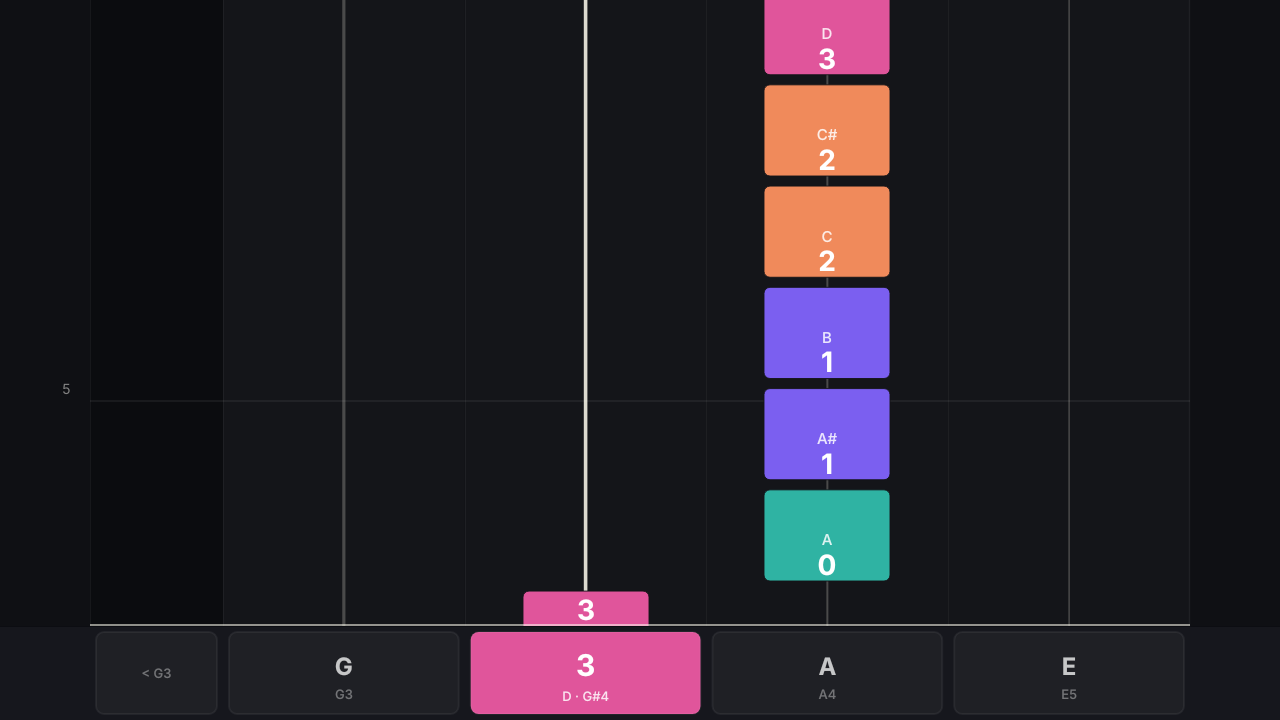
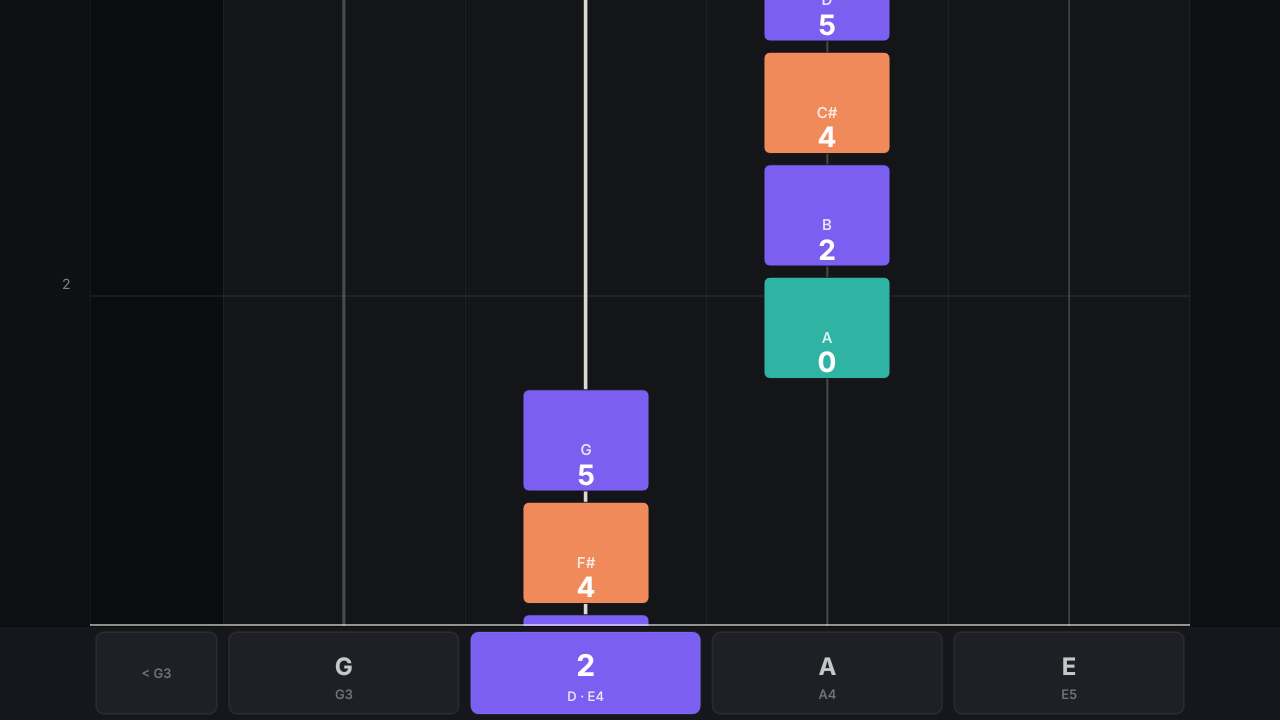
Show semitones (0–6) in violin blocks and color sharps/flats
The block number was the 1st-position finger (0–3), which gives a natural and
its sharp the same number (e.g. C and C# on the A string were both "2"), so
sharps were indistinguishable without note labels.

- Blocks (and the bottom panel) now show semitones above the open string,
  0 = open … 6. Configurable via `blockNumber: 'semitones' | 'finger'`.
- Colors: green = open string, purple = natural, orange = sharp/flat.
- Notes past the top of the range show their name instead of a number.
- Tests for the numbering; README and screenshot updated.

Claude-Session: https://claude.ai/code/session_019oggZxxvHFyZa4nUrM65n1

Changed region(s): [[0.5938, 0.1528, 0.7188, 0.825], [0.3438, 0.5194, 0.5625, 1.0], [0.5938, 0.0, 0.7188, 0.1222]]

diff --git a/src/features/SongVisualization/violin.ts b/src/features/SongVisualization/violin.ts
@@ -1,12 +1,14 @@
 /**
  * Violin visualization: notes fall onto the four strings (G, D, A, E) instead of piano keys.
- * Each falling block shows the finger to use (0 = open string). Where a note goes is decided
+ * Each falling block shows how many semitones above the open string to play (0 = open string),
+ * and sharps/flats are drawn in a different color, like the black keys of a piano. Where a note goes is decided
  * by `@/features/violin` (see `DEFAULT_VIOLIN_CONFIG`), so the rules can change independently.
  */
 import { line, roundRect } from '@/features/drawing'
-import { getFixedDoNoteFromKey, getKey, getOctave, transposeMidi } from '@/features/theory'
+import { getFixedDoNoteFromKey, getKey, getOctave, isBlack, transposeMidi } from '@/features/theory'
 import {
   DEFAULT_VIOLIN_CONFIG,
+  getBlockNumber,
   getViolinLanes,
   placeViolinNote,
   ViolinConfig,
@@ -39,13 +41,11 @@ const colors = {
   rangeSelectionFill: '#8b5cf6',
 }
 
-/** Block colors by finger, so the finger can be read at a glance (like white/black keys). */
-const FINGER_COLORS: Record<number, string> = {
-  0: '#2fb3a3', // open string
-  1: '#7b5ff0',
-  2: '#f08a5b',
-  3: '#e0559b',
-  4: '#d6b83a',
+/** Block colors: open strings, natural notes and sharps/flats (like a piano's white/black keys). */
+const NOTE_COLORS = {
+  open: '#2fb3a3',
+  natural: '#7b5ff0',
+  accidental: '#f08a5b',
 }
 
 const MAX_AREA_WIDTH = 1100
@@ -133,11 +133,14 @@ function getStringName(index: number, state: State): string {
   return state.noteLabels === 'fixed-do' ? getFixedDoNoteFromKey(string.id) : string.id
 }
 
-function getBlockColor(placement: ViolinPlacement): string {
-  if (placement.outOfRange || placement.finger === null) {
+function getBlockColor(placement: ViolinPlacement, midi: number): string {
+  if (placement.outOfRange) {
     return colors.outOfRange
   }
-  return FINGER_COLORS[placement.finger] ?? colors.outOfRange
+  if (placement.semitones === 0) {
+    return NOTE_COLORS.open
+  }
+  return isBlack(midi) ? NOTE_COLORS.accidental : NOTE_COLORS.natural
 }
 
 export function renderViolinVis(
@@ -253,17 +256,18 @@ function renderFallingNote(
   }
 
   ctx.save()
-  ctx.fillStyle = getBlockColor(placement)
+  ctx.fillStyle = getBlockColor(placement, midi)
   ctx.strokeStyle = colors.noteBorder
   ctx.lineWidth = 1
   roundRect(ctx, posX, posYTop, width, length, { topRadius: 6, bottomRadius: 6 })
 
-  // Label at the bottom of the block: finger number (big) and, optionally, the note name.
+  // Label at the bottom of the block: the number (big) and, optionally, the note name.
   // While a long note crosses the hit line, the label sticks just above the line.
   const bottom = Math.min(posYTop + length, state.noteHitY)
   const visibleLength = bottom - posYTop
   const showName = state.noteLabels !== 'none'
-  const fingerText = placement.finger !== null ? String(placement.finger) : ''
+  const blockNumber = getBlockNumber(placement, state.config)
+  const fingerText = blockNumber !== null ? String(blockNumber) : ''
   const nameText =
     showName || !fingerText ? getNoteName(midi, state, !isString || placement.outOfRange) : ''
 
@@ -310,7 +314,7 @@ function renderRange(state: State) {
   ctx.restore()
 }
 
-/** Bottom panel: one box per lane with the string name, lit with the finger while a note plays. */
+/** Bottom panel: one box per lane with the string name, lit with the number while a note plays. */
 function renderPanel(
   state: State,
   active: Map<string, { midi: number; placement: ViolinPlacement }>,
@@ -337,7 +341,9 @@ function renderPanel(
     const boxH = panelHeight - pad * 2
     const playing = active.get(laneKey(lane.lane))
 
-    ctx.fillStyle = playing ? getBlockColor(playing.placement) : 'rgba(255,255,255,0.04)'
+    ctx.fillStyle = playing
+      ? getBlockColor(playing.placement, playing.midi)
+      : 'rgba(255,255,255,0.04)'
     ctx.strokeStyle = 'rgba(255,255,255,0.06)'
     roundRect(ctx, boxX, boxY, boxW, boxH, { topRadius: 8, bottomRadius: 8 })
 
@@ -351,10 +357,10 @@ function renderPanel(
       const titlePx = Math.max(12, Math.min(Math.floor(boxH * 0.3), 26))
       const subPx = Math.max(9, Math.min(Math.floor(boxH * 0.16), 13))
       if (playing) {
-        const finger = playing.placement.finger
+        const blockNumber = getBlockNumber(playing.placement, state.config)
         ctx.fillStyle = 'white'
         ctx.font = `700 ${Math.floor(titlePx * 1.25)}px ${FONT}`
-        ctx.fillText(finger !== null ? String(finger) : '–', cx, boxY + boxH * 0.4)
+        ctx.fillText(blockNumber !== null ? String(blockNumber) : '–', cx, boxY + boxH * 0.4)
         ctx.font = `500 ${subPx}px ${FONT}`
         ctx.globalAlpha = 0.85
         ctx.fillText(

diff --git a/src/features/violin/placement.test.ts b/src/features/violin/placement.test.ts
@@ -1,5 +1,5 @@
 import { DEFAULT_VIOLIN_CONFIG, ViolinConfig } from './config'
-import { getViolinLanes, placeViolinNote } from './placement'
+import { getBlockNumber, getViolinLanes, placeViolinNote } from './placement'
 
 const G3 = 55
 const C4 = 60
@@ -93,5 +93,28 @@ describe('placeViolinNote (custom configs)', () => {
       strings: DEFAULT_VIOLIN_CONFIG.strings.map((s) => ({ ...s, maxSemitones: 5 })),
     }
     expect(placeViolinNote(CS4, config)).toMatchObject({ stringIndex: 0, outOfRange: true })
+  })
+})
+
+describe('getBlockNumber', () => {
+  const num = (n: number, config = DEFAULT_VIOLIN_CONFIG) =>
+    getBlockNumber(placeViolinNote(n, config)!, config)
+
+  it('shows semitones above the open string by default (0 … 6)', () => {
+    // A string: A, A#, B, C, C#, D, D#
+    expect([69, 70, 71, 72, 73, 74, 75].map((n) => num(n))).toEqual([0, 1, 2, 3, 4, 5, 6])
+    // Sharps get their own number, distinct from the natural next to them.
+    expect(num(CS4)).toBe(6)
+    expect(num(C4)).toBe(5)
+  })
+
+  it('can show finger numbers instead', () => {
+    const config: ViolinConfig = { ...DEFAULT_VIOLIN_CONFIG, blockNumber: 'finger' }
+    expect([69, 70, 71, 72, 73, 74, 75].map((n) => num(n, config))).toEqual([0, 1, 1, 2, 2, 3, 3])
+  })
+
+  it('has no number for notes outside the strings range', () => {
+    expect(num(B5)).toBeNull()
+    expect(num(G3 - 1)).toBeNull()
   })
 })

diff --git a/src/features/violin/config.ts b/src/features/violin/config.ts
@@ -20,6 +20,9 @@ export interface ViolinString {
   maxSemitones: number
 }
 
+/** What the number inside each falling block means. */
+export type BlockNumberMode = 'semitones' | 'finger'
+
 /** What to do with notes that no string covers. */
 export type BelowRangeMode = 'lane' | 'discard'
 export type AboveRangeMode = 'top-string' | 'lane' | 'discard'
@@ -27,6 +30,11 @@ export type AboveRangeMode = 'top-string' | 'lane' | 'discard'
 export interface ViolinConfig {
   /** Ordered from lowest to highest string (left → right on screen). */
   strings: ViolinString[]
+  /**
+   * 'semitones' → semitones above the open string (0 = open string … 6).
+   * 'finger'    → finger number from `fingerBySemitone` (0 = open string … 3).
+   */
+  blockNumber: BlockNumberMode
   /**
    * Finger used for each semitone offset above the open string (index = semitones).
    * Offsets past the end of this table have no finger number.
@@ -54,6 +62,7 @@ export const DEFAULT_VIOLIN_CONFIG: ViolinConfig = {
     { id: 'A', openMidi: 69, maxSemitones: 6 }, // A4 … D#5
     { id: 'E', openMidi: 76, maxSemitones: 6 }, // E5 … A#5
   ],
+  blockNumber: 'semitones',
   // 1st position: 0 = open, 1–2 = 1st finger (low/high), 3–4 = 2nd, 5–6 = 3rd, 7 = 4th.
   fingerBySemitone: [0, 1, 1, 2, 2, 3, 3, 4],
   belowRange: 'lane',

diff --git a/src/features/violin/placement.ts b/src/features/violin/placement.ts
@@ -100,6 +100,21 @@ export function placeViolinNote(midiNote: number, config: ViolinConfig): ViolinP
   }
 }
 
+/**
+ * The number shown inside a falling block, or null when the note has none (notes in the extra
+ * lanes, and notes past the top of the range, which show their name instead).
+ */
+export function getBlockNumber(placement: ViolinPlacement, config: ViolinConfig): number | null {
+  if (placement.stringIndex === null || placement.semitones === null) {
+    return null
+  }
+  const max = config.strings[placement.stringIndex].maxSemitones
+  if (placement.semitones > max) {
+    return null
+  }
+  return config.blockNumber === 'finger' ? placement.finger : placement.semitones
+}
+
 /** Which extra lanes the current config needs, from left to right. */
 export function getViolinLanes(config: ViolinConfig): ViolinLane[] {
   const lanes: ViolinLane[] = []

diff --git a/README.md b/README.md
@@ -1,6 +1,6 @@
 # Sightread-violin
 
-Um fork do [Sightread](https://github.com/sightread/sightread) com uma visualização feita para **tocar violino**: as notas caem sobre as quatro cordas (Sol, Ré, Lá, Mi), no lugar das teclas do piano, e cada bloco mostra o dedo a usar.
+Um fork do [Sightread](https://github.com/sightread/sightread) com uma visualização feita para **tocar violino**: as notas caem sobre as quatro cordas (Sol, Ré, Lá, Mi), no lugar das teclas do piano, e cada bloco mostra quantos semitons acima da corda solta tocar.
 
 ![Visão de violino](docs/violin-view.png)
 
@@ -20,11 +20,12 @@ Um fork do [Sightread](https://github.com/sightread/sightread) com uma visualiza
   | Lá (A4) | A4 – D♯5 |
   | Mi (E5) | E5 – A♯5 |
 
-- **Dedos:** o número dentro do bloco é o dedo. 0 é a corda solta, 1–2 semitons usam o 1º dedo, 3–4 o 2º e 5–6 o 3º. A cor também indica o dedo: verde = solta, roxo = 1, laranja = 2, rosa = 3.
+- **Número no bloco:** quantos **semitons** acima da corda solta tocar, de 0 (corda solta) a 6. Exemplo na corda Lá: A = 0, A♯ = 1, B = 2, C = 3, C♯ = 4, D = 5, D♯ = 6.
+- **Cores:** verde = corda solta, roxo = nota natural, laranja = sustenido/bemol (como as teclas pretas do piano).
 - **Fora da extensão:**
   - Notas abaixo de G3 não existem no violino. Elas aparecem em cinza numa faixa à esquerda das cordas, o que ajuda a perceber um MIDI na oitava errada (use *Transpose* nas configurações).
   - Notas acima de A♯5 aparecem em cinza na corda Mi, onde seriam tocadas em posições mais altas.
-- **Painel inferior:** acende a corda que está soando, com o dedo e a nota.
+- **Painel inferior:** acende a corda que está soando, com o número e a nota.
 - O nome das notas segue a opção *Note labels* (None / Alphabetical / Fixed Do).
 - Todo o resto do Sightread continua funcionando: velocidade, loop, metrônomo, seleção de faixas e espera.
 
@@ -35,7 +36,7 @@ A visão de violino é a padrão. Para trocar de visão, use o menu *Visualizer*
 Todas as regras ficam em [`src/features/violin/config.ts`](src/features/violin/config.ts):
 
 - `maxSemitones` de cada corda define até onde ela toca. Com 7, o 4º dedo vira alternativa à corda solta seguinte e a corda solta é a preferida.
-- `fingerBySemitone` define qual dedo usar para cada semitom.
+- `blockNumber` escolhe o número do bloco: `'semitones'` (0–6, padrão) ou `'finger'` (dedo da 1ª posição, 0–3, definido em `fingerBySemitone`).
 - `belowRange` (`'lane'` ou `'discard'`) e `aboveRange` (`'top-string'`, `'lane'` ou `'discard'`) definem o que fazer com notas fora da extensão.
 
 A decisão de corda/dedo está em [`placement.ts`](src/features/violin/placement.ts), com testes. O desenho está em [`src/features/SongVisualization/violin.ts`](src/features/SongVisualization/violin.ts).
